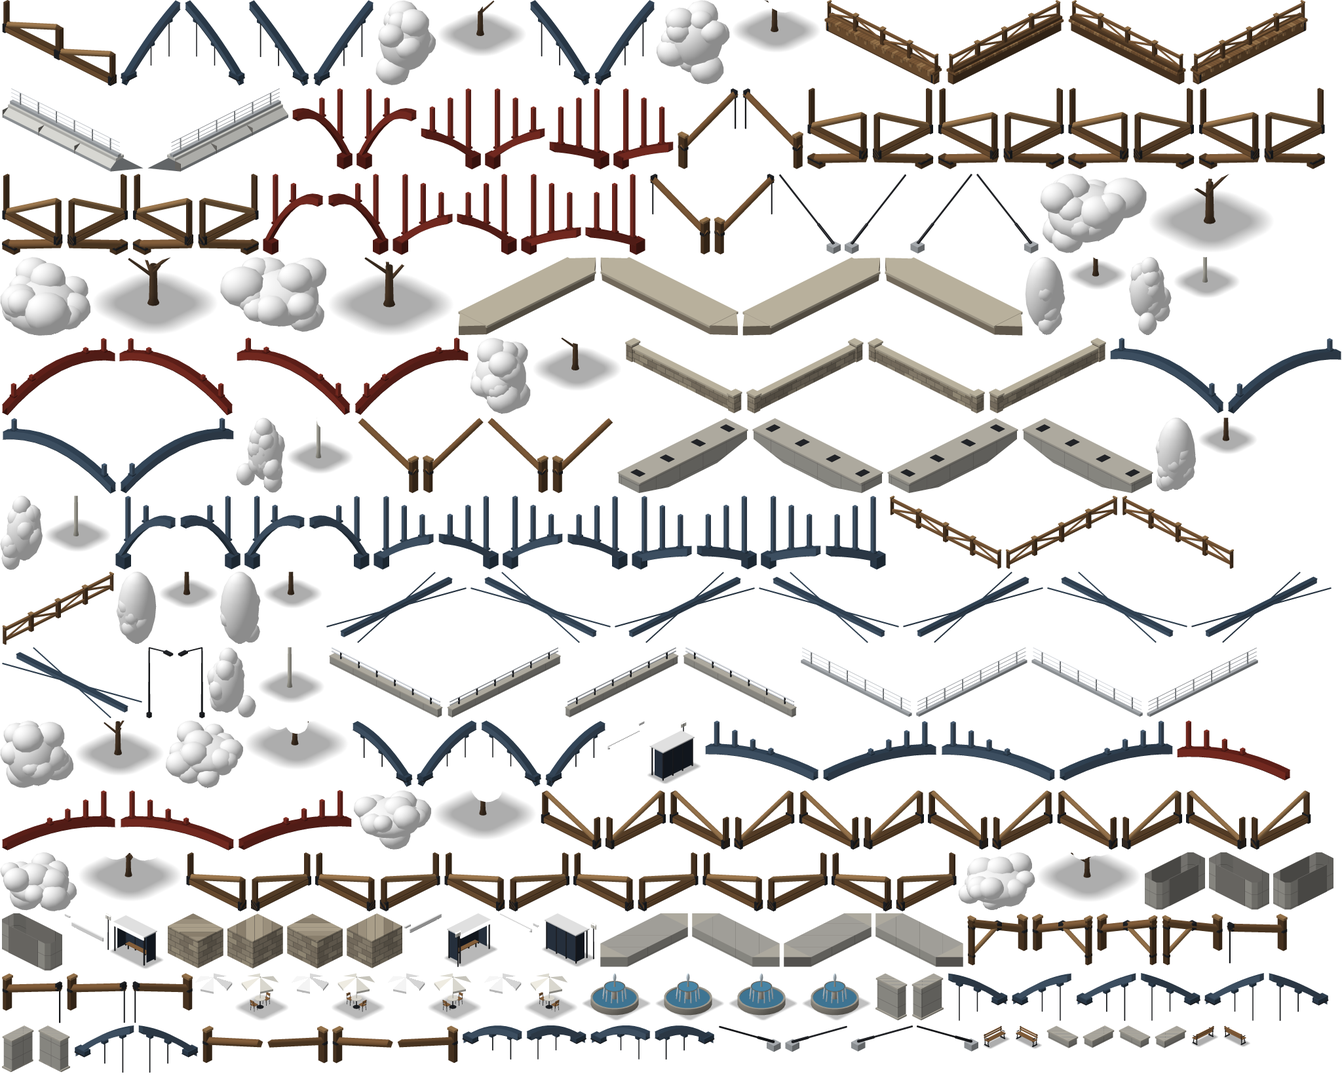
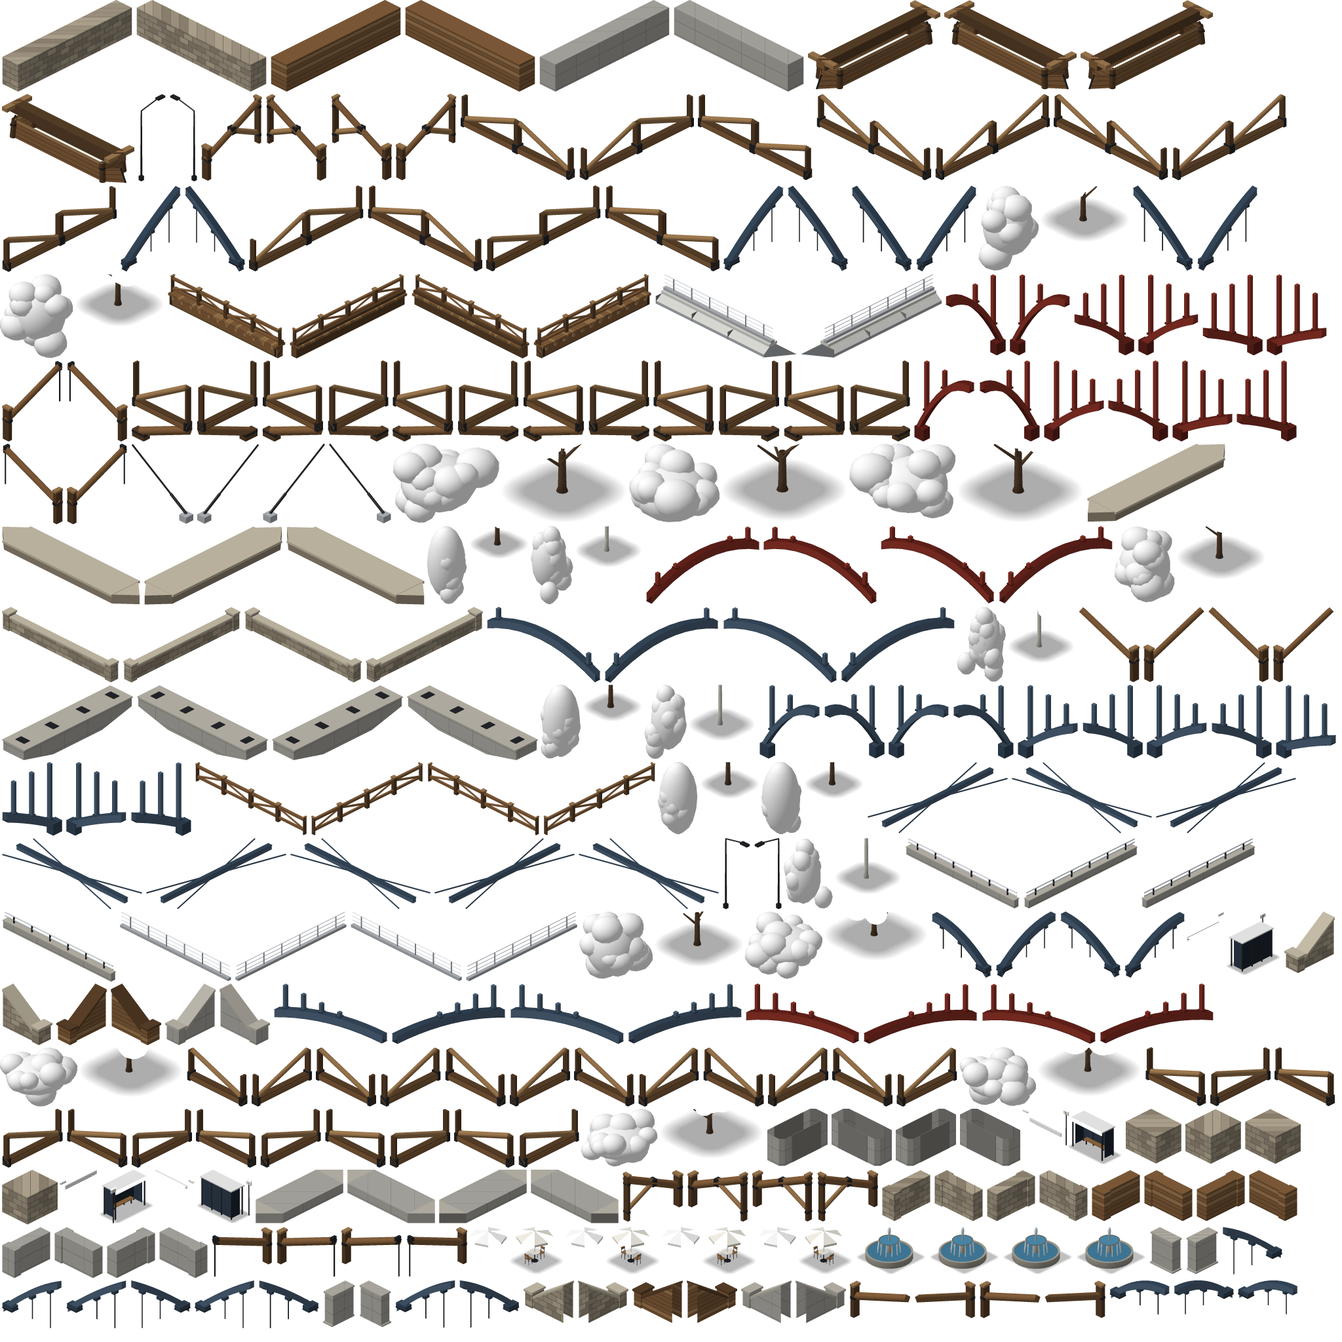
feat(bridges): a bridge is built into its banks — an abutment under each end of the deck, wing walls along the bank where the ground falls away, the rail run on a tile along the road to an end pier; stone, timber or concrete by its kind

diff --git a/src/world/render/bridge-props.ts b/src/world/render/bridge-props.ts
@@ -18,11 +18,11 @@ import type { Grid } from "../grid";
 import { idx, inBounds } from "../grid";
 import { bandOf } from "../iso";
 import { bakedProps, propSprite, propSprites, propsLoaded } from "../props/props-sheet";
-import { ARCH_SPRING, BENT_MAX, BENT_UNDER, HS, FRAME_DEEP, FRAME_LOW, RIB_CROWN, RIB_FOOT } from "../props/bridges";
+import { ABUT_HEAD, ARCH_SPRING, BENT_MAX, BENT_UNDER, HS, FRAME_DEEP, FRAME_LOW, RIB_CROWN, RIB_FOOT } from "../props/bridges";
 import type { BandLayer } from "./bands";
 
 export type BridgeKind = "arch" | "trestle" | "girder" | "truss" | "stay";
-export type BridgePiece = { id: string; turn: number; x: number; y: number; z: number; tier: "under" | "back" | "front"; /** Drawn this much taller than baked, from its foot: a pier made to the nearest half step, fitted to the room there is. */ stretch?: number };
+export type BridgePiece = { id: string; turn: number; x: number; y: number; z: number; tier: "under" | "back" | "front"; /** The cell it is drawn with, where that is not the one it stands on: a piece on the line between two tiles. */ cell?: { x: number; y: number }; /** Drawn this much taller than baked, from its foot: a pier made to the nearest half step, fitted to the room there is. */ stretch?: number };
 /** A bridge: the deck's cells joined up, the way it runs, how long and wide it is, the room under it, and what kind it is. */
 export type Bridge = { kind: BridgeKind; cells: number[]; alongX: boolean; a0: number; len: number; width: number; room: number };
 
@@ -89,6 +89,9 @@ export function towersOf(len: number): number[] {
 }
 
 const NEAR = { arch: "archSide", trestle: "trestleEdge", girder: "girderEdge", truss: "trussNear", stay: "stayEdge" } as const;
+/** What a bridge is faced with where it meets the bank, by its kind; and the rail that runs on along the road there. */
+const FACED = { arch: "Stone", trestle: "Timber", girder: "Concrete", truss: "Concrete", stay: "Concrete" } as const;
+const LAND_RAIL = { arch: "archParapet", trestle: "trestleRail", girder: "girderRail", truss: "girderRail", stay: "stayRail" } as const;
 const FAR = { arch: "archParapet", trestle: "trestleRail", girder: "girderRail", truss: "trussFar", stay: "stayRail" } as const;
 
 /**
@@ -188,6 +191,39 @@ export function bridgePiecesOf(g: Grid, depth: (x: number, y: number) => number 
       if (K === "stay" && off === 0) put("pylonBeam", "front");
       if (K === "arch" && B.width === 1 && towers.includes(k)) out.push({ id: "archGate", turn, x: x - (B.alongX ? 0.5 : 0), y: y - (B.alongX ? 0 : 0.5), z, tier: "front" });
       if (K === "girder" && B.width <= 3 && springs.length && !springs.includes(k)) { const i = springs.findIndex((q) => q > k); put(`bowBrace${springs[i] - springs[i - 1]}`, "front"); }
+
+      // WHERE IT MEETS THE BANK, at each end: not the bridge's own tiles but the land's.
+      for (const e of [0, 1]) {
+        if (k !== (e ? B.len - 1 : 0)) continue;
+        const out1 = e ? 1 : -1, ox = B.alongX ? out1 : 0, oy = B.alongX ? 0 : out1, F = FACED[K];
+        const ax = x + ox, ay = y + oy;
+        if (!inBounds(g, ax, ay) || g.deck[idx(g, ax, ay)] !== 0) continue;
+        // AN ABUTMENT on the bank's face under the deck's end: its head, and the wall on down to the water. The river is its +x.
+        if (g.height[idx(g, ax, ay)] > base + 0.5 && room * HS >= ABUT_HEAD + 0.4) {
+          const at = { x: x + ox * 0.5, y: y + oy * 0.5, turn: (turn + (e ? 2 : 0)) % 4, tier: "under" as const, cell: { x, y } };
+          for (let top = z - ABUT_HEAD / HS; top > base; top--) out.push({ id: `abut${F}Shaft`, z: top, ...at });
+          out.push({ id: `abut${F}`, z, ...at });
+          // A WING WALL along the bank's face each side of it, where the bank runs on there and the ground falls away
+          // in front of it: a piece's left is the side its turn names, so the other wing is the same piece turned about.
+          for (const t of [at.turn, (at.turn + 2) % 4]) {
+            const L = SIDES[t], bi = inBounds(g, ax + L.dx, ay + L.dy) ? idx(g, ax + L.dx, ay + L.dy) : -1, fi = inBounds(g, x + L.dx, y + L.dy) ? idx(g, x + L.dx, y + L.dy) : -1;
+            if (bi < 0 || fi < 0 || g.deck[fi] !== 0 || g.height[bi] < z - 1) continue;
+            const foot = g.height[fi] + Math.max(0, depth(x + L.dx, y + L.dy));
+            if (foot > z - ABUT_HEAD / HS) continue;
+            for (let top = z - ABUT_HEAD / HS; top > foot; top--) out.push({ id: `wing${F}Shaft`, z: top, ...at, turn: t });
+            out.push({ id: `wing${F}`, z, ...at, turn: t });
+          }
+        }
+        // THE RAIL RUNS ON along the road for a tile onto the land, and stops at a pier — where the road there is level with the deck.
+        const ai = idx(g, ax, ay);
+        if (g.paved[ai] === 0 || g.ramp[ai] !== 0 || g.height[ai] !== z) continue;
+        for (const s of SIDES) {
+          if ((s.dx !== 0) === B.alongX || road(ax + s.dx, ay + s.dy)) continue;
+          const tier = s.near ? "front" : "back";
+          out.push({ id: LAND_RAIL[K], turn: s.turn, x: ax, y: ay, z, tier });
+          out.push({ id: `end${F}`, turn: s.turn, x: ax + ox * 0.45, y: ay + oy * 0.45, z, tier, cell: { x: ax, y: ay } });
+        }
+      }
     }
   }
   return out;
@@ -213,7 +249,7 @@ export function createBridgeProps(bands: BandLayer): BridgeProps {
       const under = new Map<number, Container>();
       for (const p of bridgePiecesOf(g, still, force)) {
         // (A piece between two tiles is the higher one's: drawn with it.)
-        const band = bandOf(Math.ceil(p.x), Math.ceil(p.y)), sp = propSprite(P, p.id, p.turn, p.x, p.y, p.z, scale);
+        const band = p.cell ? bandOf(p.cell.x, p.cell.y) : bandOf(Math.ceil(p.x), Math.ceil(p.y)), sp = propSprite(P, p.id, p.turn, p.x, p.y, p.z, scale);
         if (!sp) continue;
         if (p.stretch) sp.scale.y = p.stretch;
         if (p.tier === "under") {

diff --git a/src/world/props/bridges.ts b/src/world/props/bridges.ts
@@ -603,6 +603,59 @@ function pylonBeamTris(): Tri[] {
   return out;
 }
 
+// ── where a bridge meets the bank ────────────────────────────────────────
+/** How far under the road an abutment's head reaches; how far its wing walls run along the bank past the deck's edge. */
+export const ABUT_HEAD = 3.4, ABUT_WING = 3.4;
+type Facing = { wall: Mat; paint: (p: V3) => Mat; trim: Mat };
+const FACING: Record<"Stone" | "Timber" | "Concrete", Facing> = {
+  Stone: { wall: "stoneA", paint: masonry, trim: "ashlar" },
+  Timber: { wall: "timber", paint: boards, trim: "timberDark" },
+  Concrete: { wall: "concrete", paint: concrete, trim: "pave" },
+};
+/**
+ * AN ABUTMENT'S HEAD, on the bank's face at the end of the deck (x = 0, the river toward +x), a tile of it across:
+ * a block out from the bank for the deck to bear on, and a shelf under it — the bridge built into the bank.
+ */
+function abutHeadTris(F: Facing): Tri[] {
+  const out: Tri[] = [], Y = HT + 0.3, top = -0.35;
+  pbox(-0.5, 1.1, -Y, Y, -ABUT_HEAD, top, F.wall, out, F.paint);
+  box(-0.56, 1.2, -Y - 0.06, Y + 0.06, top - 0.28, top, F.trim, out);
+  return out;
+}
+/** A half step of an abutment under its head, its top at the origin: stood one on another from the water up. */
+function abutShaftTris(F: Facing): Tri[] { const out: Tri[] = []; pbox(-0.5, 1.1, -HT - 0.3, HT + 0.3, -HS, 0, F.wall, out, F.paint); return out; }
+/**
+ * A WING WALL'S HEAD: along the bank's face from the deck's left edge, its top falling away from the road under a
+ * coping, a pier at its end — the bank held up beside the bridge.
+ */
+function wingHeadTris(F: Facing): Tri[] {
+  const out: Tri[] = [], Y = HT + 0.3, W = HT + ABUT_WING, top = -0.35, low = -2.5;
+  const n = out.length, c: V3 = [0, Y + 1.5, -2.6];
+  for (const x of [-0.5, 0.5]) face([[x, Y, -ABUT_HEAD], [x, W, -ABUT_HEAD], [x, W, low], [x, Y, top]], F.wall, c, out);
+  laid(out, n, F.paint);
+  face([[-0.58, Y, top + 0.08], [0.58, Y, top + 0.08], [0.58, W, low + 0.08], [-0.58, W, low + 0.08]], F.trim, c, out);
+  for (const x of [-0.58, 0.58]) face([[x, Y, top - 0.12], [x, W, low - 0.12], [x, W, low + 0.08], [x, Y, top + 0.08]], F.trim, [0, Y + 1.5, -2], out);
+  pbox(-0.62, 0.62, W, W + 0.7, -ABUT_HEAD, low + 0.3, F.wall, out, F.paint);
+  box(-0.7, 0.7, W - 0.08, W + 0.78, low + 0.3, low + 0.46, F.trim, out);
+  return out;
+}
+/** A half step of a wing wall under its head, and of the pier at its end. */
+function wingShaftTris(F: Facing): Tri[] {
+  const out: Tri[] = [], Y = HT + 0.3, W = HT + ABUT_WING;
+  pbox(-0.5, 0.5, Y, W, -HS, 0, F.wall, out, F.paint);
+  pbox(-0.62, 0.62, W, W + 0.7, -HS, 0, F.wall, out, F.paint);
+  return out;
+}
+/** A pier at the end of a bridge's rail, on the bank at the left edge (x = 0): where the parapet stops. */
+function endPostTris(F: Facing): Tri[] {
+  const out: Tri[] = [], y0 = HT - 0.72, y1 = HT + 0.2;
+  pbox(-0.5, 0.5, y0, y1, -0.1, 1.55, F.wall, out, F.paint);
+  box(-0.58, 0.58, y0 - 0.08, y1 + 0.08, 1.55, 1.7, F.trim, out);
+  box(-0.4, 0.4, y0 + 0.1, y1 - 0.1, 1.7, 1.86, F.trim, out);
+  box(-0.56, 0.56, y0 - 0.06, y1 + 0.06, -0.1, 0.12, F.trim, out);
+  return out;
+}
+
 const P = (id: string, tris: () => Tri[]): Prop => ({ id, tris, shadow: NONE, flat: true });
 export const BRIDGE: readonly Prop[] = [
   P("archSide", archSideTris), P("archParapet", archParapetTris), P("archHead", archHeadTris), P("archShaft", archShaftTris), P("archFoot", archFootTris),
@@ -623,6 +676,7 @@ export const BRIDGE: readonly Prop[] = [
     P(`${id}2M`, () => ribTris(2, HT, 3 * HT, TL, 1, m, dk, c)), P(`${id}3MA`, () => ribTris(3, HT, 3 * HT, TL, 1, m, dk, c)), P(`${id}3MB`, () => ribTris(3, HT, 3 * HT, TL, -1, m, dk, c)),
   ]),
   P("ribWall", ribWallTris),
+  ...(Object.keys(FACING) as (keyof typeof FACING)[]).flatMap((k) => [P(`abut${k}`, () => abutHeadTris(FACING[k])), P(`abut${k}Shaft`, () => abutShaftTris(FACING[k])), P(`wing${k}`, () => wingHeadTris(FACING[k])), P(`wing${k}Shaft`, () => wingShaftTris(FACING[k])), P(`end${k}`, () => endPostTris(FACING[k]))]),
   P("bowSeat", () => bowSeatTris(-2.0)), P("bowSeatFar", () => bowSeatTris(0)),
   // An arch's half tile from where it springs, for each span, rising along the piece (A) or back along it (B); the
   // tiles between: the crown of a two-tile arch (M), the rise (MA) and fall (MB) of a three-tile one.

diff --git a/src/world/render/bridge-props.test.ts b/src/world/render/bridge-props.test.ts
@@ -167,6 +167,37 @@ describe("a bridge's pieces", () => {
     expect(bridgePiecesOf(bridged(3, 1), () => 2, "trestle").some((p) => /^frame/.test(p.id))).toBe(false);
   });
 
+  test("where a bridge meets the bank, on the land's tiles and not its own: an abutment under each end of the deck, a wing wall along the bank each side where the ground falls away, the rail run on a tile along the road to a pier", () => {
+    const FACE = { arch: "Stone", trestle: "Timber", girder: "Concrete", truss: "Concrete", stay: "Concrete" } as const;
+    for (const kind of KINDS) {
+      // A bank: the ground at the deck's level everywhere but under the bridge and beside it.
+      const g = bridged(10);
+      for (let y = 0; y < g.h; y++) for (let x = 0; x < g.w; x++) if (y < 6 || y > 19) g.height[idx(g, x, y)] = 10;
+      const ps = bridgePiecesOf(g, () => 2, kind), F = FACE[kind];
+      // An abutment's head per lane at each end, on the line between the last tile of deck and the land; under it, the wall down to the water.
+      const heads = ps.filter((p) => p.id === `abut${F}`);
+      expect(heads.map((p) => p.y).sort((a, b) => a - b)).toEqual([5.5, 5.5, 19.5, 19.5]);
+      for (const p of heads) expect(p).toMatchObject({ tier: "under", z: 10 });
+      expect(ps.filter((p) => p.id === `abut${F}Shaft`).every((p) => p.z > 2 && p.z < 10)).toBe(true);
+      expect(ps.filter((p) => p.id === `abut${F}Shaft`).length).toBeGreaterThanOrEqual(4 * 6);
+      // A wing each side of each end — the outer side of each lane, none between the two lanes.
+      const wings = ps.filter((p) => p.id === `wing${F}`);
+      expect(wings.length).toBe(4);
+      expect(new Set(wings.map((p) => `${p.x},${p.y},${p.turn}`)).size).toBe(4);
+      // On the land: a tile of rail each side of the road at each end, and a pier where it stops.
+      const land = ps.filter((p) => p.y === 5 || p.y === 20);
+      expect(land.length).toBe(4);
+      for (const p of land) expect(p.id).not.toMatch(/Edge|Near|Side/);
+      expect(ps.filter((p) => p.id === `end${F}`).length).toBe(4);
+      for (const p of ps.filter((q) => q.id === `end${F}`)) expect(p.y < 6 || p.y > 19).toBe(true);
+    }
+    // Low ground at the deck's end: no bank there to build into, and nothing is.
+    const flat = bridgePiecesOf(bridged(10), () => 2, "girder");
+    expect(flat.some((p) => /^(abut|wing)/.test(p.id))).toBe(false);
+    // A road that climbs to the bridge has no rail run on along it.
+    expect(flat.some((p) => /^end/.test(p.id))).toBe(false);
+  });
+
   test("what kind a bridge is: one its shape allows, and the same one every time", () => {
     for (const [wide, len, up] of [[1, 6, 4], [1, 12, 12], [2, 14, 10], [3, 12, 10], [4, 5, 8]]) {
       const g = bridged(up, wide, len), [b] = bridgesOf(g);

diff --git a/README.md b/README.md
@@ -133,7 +133,7 @@ src/
 - **The world reads, the economy listens:** `game/` never imports `world/` at runtime; the map registers readers.
 - **Grid:** typed arrays indexed `y*w+x`, dirty-cell redraws. **Live state** (water, boats, traffic, crews, pollution) lives outside it.
 - **Bands:** a container per diagonal `x+y`; cached render groups, so **Pixi's GC is off** (`stopGarbageCollection`).
-- **Heights:** half steps (16.5 px). **Roads are painted in code** (`render/road-paint.ts`): one sprite per cell, its texture painted once per neighbourhood on a small strip canvas and copied into ~2048² GPU atlas pages — kerbs, rounded corners and nubs, and British markings worked out per cell (`roads/looks.ts`: centre and warning lines, give-way and stop lines, arrows, yellow boxes, double yellows, SLOW before bends, zebras), seamless because each tile paints its neighbours' edges too; on-screen cells repainted at 3× or 5× as the zoom needs, with aggregate, bevelled paving and tyre tracks (`lodFor`, `lodPaved`); a tile no cell draws gives its place to a new one once a level has filled 4 pages (`RoadPainter.keep`), a closer level is kept 30 s after you zoom out and then destroyed a page at a time, and painted tiles upload before the frame draws. A cell's role by its neighbours is `roads/role.ts`. **Hills** (`roads/grade.ts`): a road stroke grades its own ground — cut and fill to a step a tile, half-step ramps, a ramp levelled where another road joins it — in the paving's own command; too steep a climb is refused, red in the cursor (`?fixture=hills`). **Highways** (`HIGHWAY`, `MEDIAN_FROM` in `roads/looks.ts`): two cells wide or more, a double centre line or a raised median with a barrier, shoulder lines, per-lane arrows (`Look.hw`), lines carried through a side road's junction with exit dashes; bus-stop cages at served stops and speed roundels (`Look.spd`). A wide road's bend carries its lines round (`Look.bd`), and three cells wide or more its stop and give-way lines cross the whole way in (`Look.hs`); `?fixture=junctions` is every junction shape for roads one to four cells wide. Plan: `plans/roads-quality.md`. Plan: `plans/procedural-roads.md`. **Grass, dirt and sand are shaded** (`render/ground-mesh.ts`): a mesh per band, tops and the walls toward the camera, coloured per pixel from a cell data texture — ragged borders between materials, root lips and earth strata on walls, blades at a real scale standing on the screen, their tips over the edge of roads, buildings and ledges behind (a fringe quad), grass thinning out onto dirt and sand, pebbles and ripples fading in with the zoom; ramps are tilted tops lit by their slope; The palette's materials are named plainly (`terrain-names.ts`, which also reads older saves). Plan: `plans/procedural-ground.md`. **Traffic keeps left** (`KEEP` in `agents/lanes/geometry.ts`, the one place it is said); lanes are at most 3.65 m, a road three cells wide or more has a 1.8 m central reservation, a hard strip and no bays, and its lines are 150/200 mm with red, amber and green studs. **A wide road's markings come from its lanes** (`roads/marks.ts`): lane lines between lanes, the middle or central reservation between the two directions, edge lines, stop/give-way lines where lanes wait, arrows for the turns a lane's traffic takes, roundels — shapes per cell, keyed into the cell's texture; `marks.test.ts` checks rules on 400 random maps. What is a street, a junction, a roundabout is the lane graph's one decision (`roads/streets.ts`, `kindOf`). **A road over water is a bridge** (`gradeRoad`, `Grade.decks`): a stroke's cells in water, and up to three of low shore each side, are spanned by a level deck from bank to bank, two half steps clear of the water and level with a deck alongside — straight, begun and ended on dry ground, laid and deleted with its road in one undoable command (`deck`, `deckZ` layers). **A bridge is built** (`render/bridge-props.ts`), one of five kinds by its shape and place (`kindOf`): a stone viaduct, a timber bridge on board-clad piers, a steel plate girder, a through truss, a cable-stayed span — sides along its open edges, piers to the waterline, and each stands over the road too: what is over the road stands on what is under it — gate towers whose turrets are the viaduct's piers carried up (`towersOf`), king-post trusses pier to pier along the timber with the piers' posts up through the deck, bowstring arches of two or three tiles over the girder on its piers' concrete (`springsOf`), bracing over the truss, pylons and stays; and between its piers under the deck a timber bridge has a braced frame, a girder and a truss arch ribs drawn as deep as the room allows (`ribFit`); baked pieces (`props/bridges.ts`, in the props sheet: `bun run bake:props`). `?bridge=arch|trestle|girder|truss|stay` shows every bridge as one kind.
+- **Heights:** half steps (16.5 px). **Roads are painted in code** (`render/road-paint.ts`): one sprite per cell, its texture painted once per neighbourhood on a small strip canvas and copied into ~2048² GPU atlas pages — kerbs, rounded corners and nubs, and British markings worked out per cell (`roads/looks.ts`: centre and warning lines, give-way and stop lines, arrows, yellow boxes, double yellows, SLOW before bends, zebras), seamless because each tile paints its neighbours' edges too; on-screen cells repainted at 3× or 5× as the zoom needs, with aggregate, bevelled paving and tyre tracks (`lodFor`, `lodPaved`); a tile no cell draws gives its place to a new one once a level has filled 4 pages (`RoadPainter.keep`), a closer level is kept 30 s after you zoom out and then destroyed a page at a time, and painted tiles upload before the frame draws. A cell's role by its neighbours is `roads/role.ts`. **Hills** (`roads/grade.ts`): a road stroke grades its own ground — cut and fill to a step a tile, half-step ramps, a ramp levelled where another road joins it — in the paving's own command; too steep a climb is refused, red in the cursor (`?fixture=hills`). **Highways** (`HIGHWAY`, `MEDIAN_FROM` in `roads/looks.ts`): two cells wide or more, a double centre line or a raised median with a barrier, shoulder lines, per-lane arrows (`Look.hw`), lines carried through a side road's junction with exit dashes; bus-stop cages at served stops and speed roundels (`Look.spd`). A wide road's bend carries its lines round (`Look.bd`), and three cells wide or more its stop and give-way lines cross the whole way in (`Look.hs`); `?fixture=junctions` is every junction shape for roads one to four cells wide. Plan: `plans/roads-quality.md`. Plan: `plans/procedural-roads.md`. **Grass, dirt and sand are shaded** (`render/ground-mesh.ts`): a mesh per band, tops and the walls toward the camera, coloured per pixel from a cell data texture — ragged borders between materials, root lips and earth strata on walls, blades at a real scale standing on the screen, their tips over the edge of roads, buildings and ledges behind (a fringe quad), grass thinning out onto dirt and sand, pebbles and ripples fading in with the zoom; ramps are tilted tops lit by their slope; The palette's materials are named plainly (`terrain-names.ts`, which also reads older saves). Plan: `plans/procedural-ground.md`. **Traffic keeps left** (`KEEP` in `agents/lanes/geometry.ts`, the one place it is said); lanes are at most 3.65 m, a road three cells wide or more has a 1.8 m central reservation, a hard strip and no bays, and its lines are 150/200 mm with red, amber and green studs. **A wide road's markings come from its lanes** (`roads/marks.ts`): lane lines between lanes, the middle or central reservation between the two directions, edge lines, stop/give-way lines where lanes wait, arrows for the turns a lane's traffic takes, roundels — shapes per cell, keyed into the cell's texture; `marks.test.ts` checks rules on 400 random maps. What is a street, a junction, a roundabout is the lane graph's one decision (`roads/streets.ts`, `kindOf`). **A road over water is a bridge** (`gradeRoad`, `Grade.decks`): a stroke's cells in water, and up to three of low shore each side, are spanned by a level deck from bank to bank, two half steps clear of the water and level with a deck alongside — straight, begun and ended on dry ground, laid and deleted with its road in one undoable command (`deck`, `deckZ` layers). **A bridge is built** (`render/bridge-props.ts`), one of five kinds by its shape and place (`kindOf`): a stone viaduct, a timber bridge on board-clad piers, a steel plate girder, a through truss, a cable-stayed span — sides along its open edges, piers to the waterline, and each stands over the road too: what is over the road stands on what is under it — gate towers whose turrets are the viaduct's piers carried up (`towersOf`), king-post trusses pier to pier along the timber with the piers' posts up through the deck, bowstring arches of two or three tiles over the girder on its piers' concrete (`springsOf`), bracing over the truss, pylons and stays; where it meets the bank, on the land's tiles, an abutment under the deck's end, wing walls along the bank where the ground falls away and the rail run on a tile to an end pier, in the kind's stone, timber or concrete; and between its piers under the deck a timber bridge has a braced frame, a girder and a truss arch ribs drawn as deep as the room allows (`ribFit`); baked pieces (`props/bridges.ts`, in the props sheet: `bun run bake:props`). `?bridge=arch|trestle|girder|truss|stay` shows every bridge as one kind.
 - **Water:** a storeyed shallow-water column solver, WebGPU by default, CPU the reference (`?gpucheck`, `__waterCompare`).
 - **Rendering:** procedural buildings drawn as masses with facades — reveals, piers, base courses, floor bands — and fit-out, fans turning and beacons blinking on their roofs (`structures/projects/looks.ts`, `model.ts`; gallery `?fixture=projects`); cutaways for what stands in front (`render/cutaway.ts`); night lights (`render/lights.ts`); juice tweens and emitters, spent motes parked in their band (`render/juice.ts`); disasters on the map — steam, haze, fire, condition glows, road-works barriers (`render/disaster-fx.ts`), scorch and cracks on the ground after (`render/decals.ts`); fire is a ridden-out heatwave's follow-up (`events/defs/fire.ts`); burst main, sewer backup, blackout and earthquake (`events/defs/`) break the longest main or sewer (`breakableCell`), the busiest junction's district, and what is nearest the HQ. Plans: `plans/engine-polish.md`, `plans/disaster-rendering.md`.
 - **Sound:** `src/audio/sound.ts`, synthesised in Web Audio.
